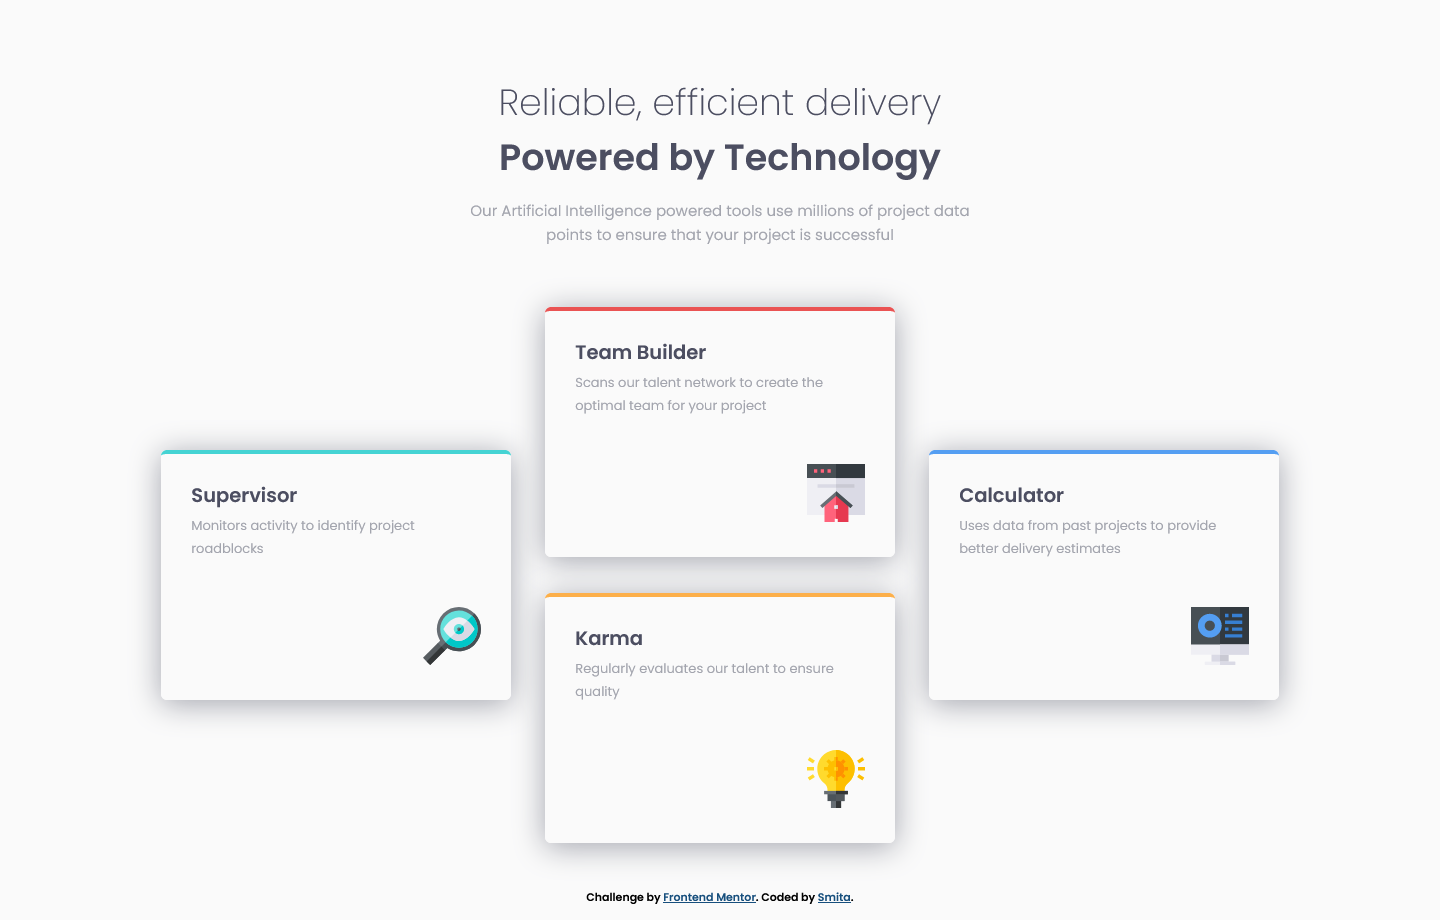
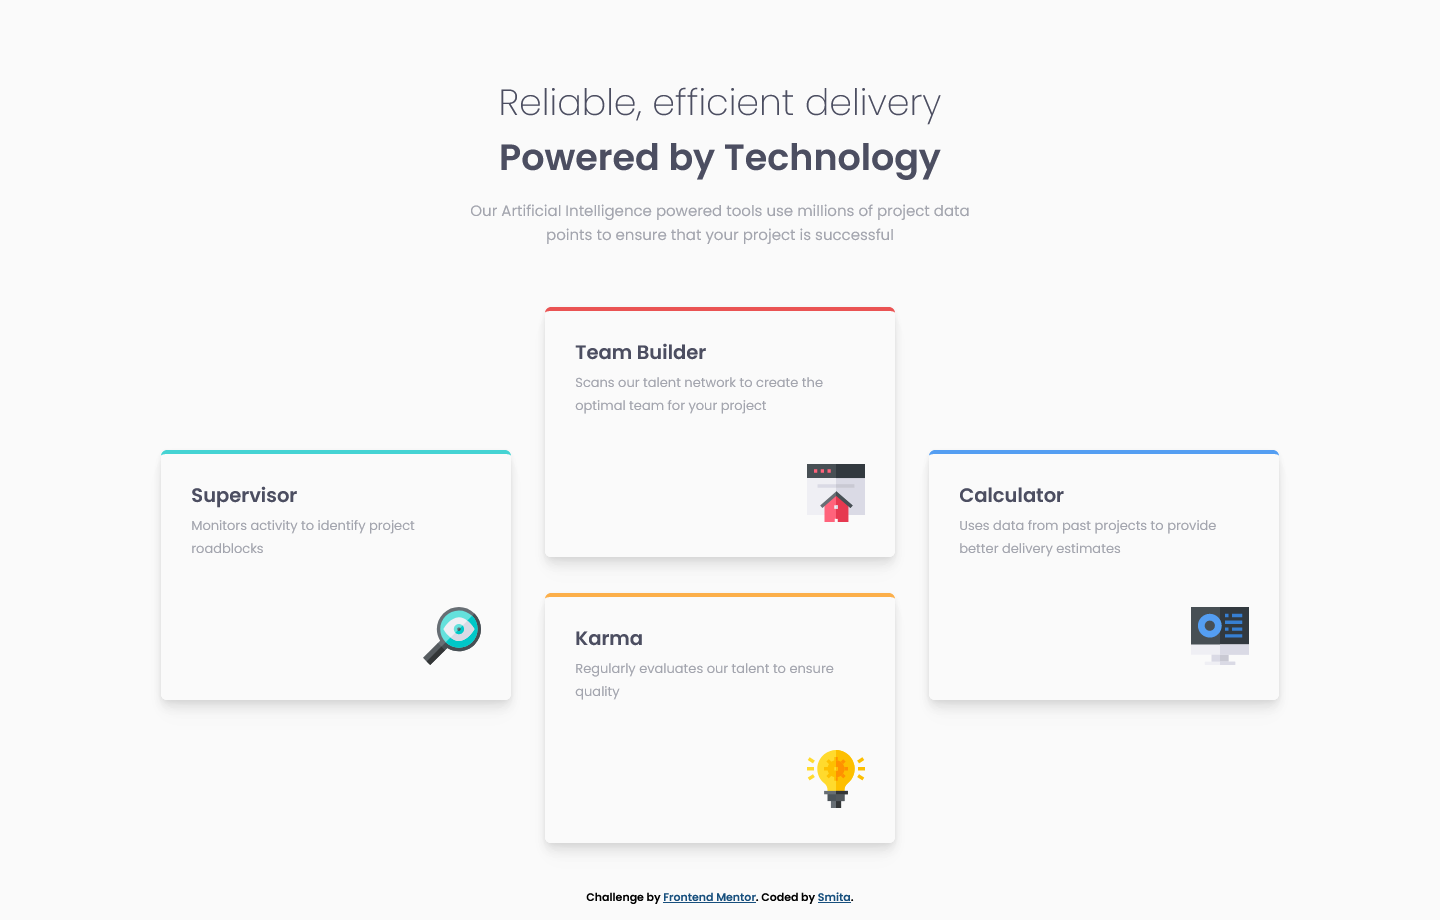
Updated files

diff --git a/README.md b/README.md
@@ -40,7 +40,7 @@ Users should be able to:
 
 ### Links
 
-- Solution URL: [Solution on FrontendMentor.io]()
+- Solution URL: [Solution on FrontendMentor.io](https://www.frontendmentor.io/solutions/css-grid-and-mobile-first-workflow-Xv6D-HaP-)
 - Live Site URL: [Live site preview](https://smita-14.github.io/four-card-feature-section-challenge/)
 
 ## My process
@@ -63,6 +63,8 @@ Users should be able to:
 
 - [A complete guide to CSS Grid | CSS-TRICKS](https://css-tricks.com/snippets/css/complete-guide-grid/) : This article has divided properties into two sections based on what goes on grid-container (parent) and grid-items (child) with descriptive diagrams and code snippets which helped me understand well. I'd recommend to anyone interested in learning grid layout.
 
+- [Techniques of layering box shadows | Tobias Ahlin](https://tobiasahlin.com/blog/layered-smooth-box-shadows/) : Very interesting article that talks about different ways to layer box shadows.
+
 
 ## Author
 
@@ -71,4 +73,4 @@ Users should be able to:
 
 ## Acknowledgments
 
-Many thanks to the [Frontend Mentor team](https://www.frontendmentor.io/) and the community for giving me the opportunity to grow and learn. 💖💖
+Many thanks to the [Frontend Mentor team](https://www.frontendmentor.io/) and the community for giving me the opportunity to learn and grow. 💖💖
